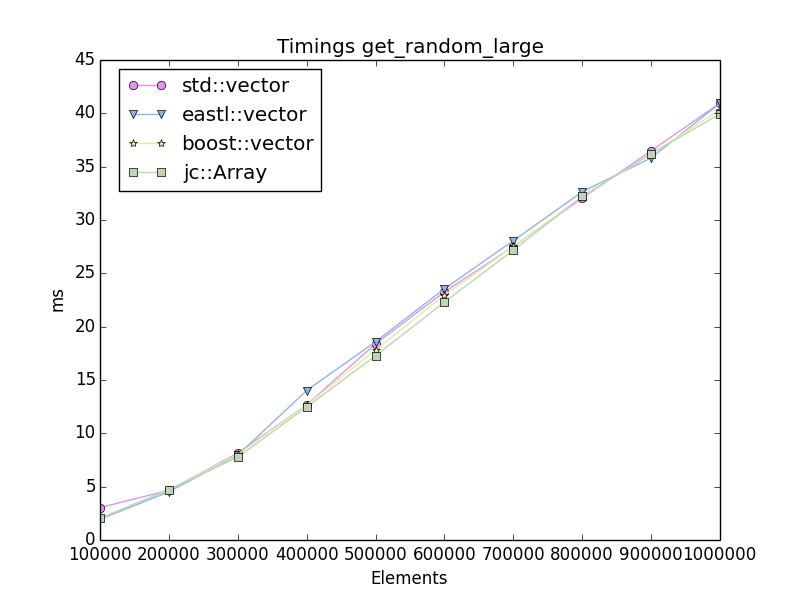
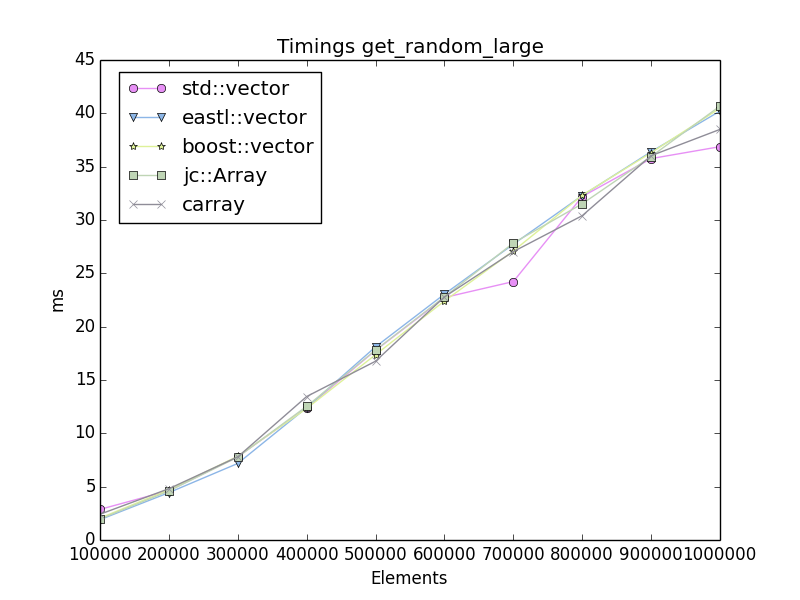
Added c array to the array benchmark for comparison

diff --git a/benchmarks/array/test_array.cpp b/benchmarks/array/test_array.cpp
@@ -11,22 +11,46 @@ struct SCtx
     container_valuesmall_t  smallvalues;
     container_valuelarge_t  largevalues;
     uint64_t                sum;            // sum of all small values
+
+#if defined(IMPL_C)
+    SCtx() : smallvalues(0), largevalues(0)
+    {
+
+    }
+    ~SCtx()
+    {
+        if(smallvalues)
+            free(smallvalues);
+        if(largevalues)
+            free(largevalues);
+    }
+#endif
 };
 
 static void clear(SCtx& ctx)
 {
     srand(0);
+#if defined(IMPL_C)
+    ctx.smallvalues = (container_valuesmall_t)malloc(sizeof(valuesmall_t)*ctx.num_elements);
+    ctx.largevalues = (container_valuelarge_t)malloc(sizeof(valuelarge_t)*ctx.num_elements);
+#else
     SET_CAPACITY(ctx.smallvalues, ctx.num_elements);
     SET_CAPACITY(ctx.largevalues, ctx.num_elements);
     SET_SIZE(ctx.smallvalues, 0);
     SET_SIZE(ctx.largevalues, 0);
+#endif
 }
 
 static void setup_random(SCtx& ctx)
 {
     srand(0);
+#if defined(IMPL_C)
+    ctx.smallvalues = (container_valuesmall_t)malloc(sizeof(valuesmall_t)*ctx.num_elements);
+    ctx.largevalues = (container_valuelarge_t)malloc(sizeof(valuelarge_t)*ctx.num_elements);
+#else
     SET_SIZE(ctx.smallvalues, ctx.num_elements);
     SET_SIZE(ctx.largevalues, ctx.num_elements);
+#endif
     for( size_t i = 0; i < ctx.num_elements; ++i )
     {
         ctx.smallvalues[i] = rand();
@@ -72,7 +96,11 @@ static uint64_t push_back(SCtx& ctx)
     uint64_t sum = 0;
     for( size_t i = 0; i < ctx.num_elements; ++i )
     {
+#if defined(IMPL_C)
+        ctx.smallvalues[i] = i;
+#else
         PUSH(ctx.smallvalues, i);
+#endif
         sum += ctx.smallvalues[i];
     }
     return sum;

diff --git a/benchmarks/array/defines.h b/benchmarks/array/defines.h
@@ -57,6 +57,11 @@ typedef struct SValue
     typedef boost::container::vector<valuesmall_t> container_valuesmall_t;
     typedef boost::container::vector<valuelarge_t> container_valuelarge_t;
 
+#elif defined(IMPL_C)
+    #define CONTAINERNAME "carray"
+    typedef valuesmall_t* container_valuesmall_t;
+    typedef valuelarge_t* container_valuelarge_t;
+
 #elif defined(IMPL_JC)
     #include <jc/array.h>
     #define CONTAINERNAME "jc::Array"

diff --git a/benchmarks/benchmarks_array.md b/benchmarks/benchmarks_array.md
@@ -18,65 +18,65 @@ _
 
 ## <sub>Timings</sub> <sub>get_random_small</sub>
 
-| <sub>counts</sub> | <sub>std::vector</sub> | <sub>eastl::vector</sub> | <sub>boost::vector</sub> | <sub>jc::Array</sub> |
-|--------:|-------------|---------------|---------------|------------|
-| <sub>100000</sub> | <sub>0.8301</sub> <sub>ms</sub> | <sub>0.8076</sub> <sub>ms</sub> | <sub>0.8070</sub> <sub>ms</sub> | <sub>0.8073</sub> <sub>ms</sub> |
-| <sub>200000</sub> | <sub>1.7399</sub> <sub>ms</sub> | <sub>1.6838</sub> <sub>ms</sub> | <sub>1.7015</sub> <sub>ms</sub> | <sub>1.6502</sub> <sub>ms</sub> |
-| <sub>300000</sub> | <sub>2.9307</sub> <sub>ms</sub> | <sub>2.8138</sub> <sub>ms</sub> | <sub>2.7659</sub> <sub>ms</sub> | <sub>2.8229</sub> <sub>ms</sub> |
-| <sub>400000</sub> | <sub>3.8769</sub> <sub>ms</sub> | <sub>3.9701</sub> <sub>ms</sub> | <sub>3.9898</sub> <sub>ms</sub> | <sub>4.3189</sub> <sub>ms</sub> |
-| <sub>500000</sub> | <sub>5.5413</sub> <sub>ms</sub> | <sub>6.2926</sub> <sub>ms</sub> | <sub>5.8681</sub> <sub>ms</sub> | <sub>5.9643</sub> <sub>ms</sub> |
-| <sub>600000</sub> | <sub>9.0944</sub> <sub>ms</sub> | <sub>9.5409</sub> <sub>ms</sub> | <sub>9.5429</sub> <sub>ms</sub> | <sub>8.6863</sub> <sub>ms</sub> |
-| <sub>700000</sub> | <sub>12.0396</sub> <sub>ms</sub> | <sub>12.0469</sub> <sub>ms</sub> | <sub>11.8891</sub> <sub>ms</sub> | <sub>12.1188</sub> <sub>ms</sub> |
-| <sub>800000</sub> | <sub>15.0395</sub> <sub>ms</sub> | <sub>15.5296</sub> <sub>ms</sub> | <sub>15.0654</sub> <sub>ms</sub> | <sub>14.9511</sub> <sub>ms</sub> |
-| <sub>900000</sub> | <sub>17.9646</sub> <sub>ms</sub> | <sub>16.7328</sub> <sub>ms</sub> | <sub>18.1123</sub> <sub>ms</sub> | <sub>17.7658</sub> <sub>ms</sub> |
-| <sub>1000000</sub> | <sub>20.4299</sub> <sub>ms</sub> | <sub>20.8780</sub> <sub>ms</sub> | <sub>21.0526</sub> <sub>ms</sub> | <sub>20.3419</sub> <sub>ms</sub> |
+| <sub>counts</sub> | <sub>std::vector</sub> | <sub>eastl::vector</sub> | <sub>boost::vector</sub> | <sub>jc::Array</sub> | <sub>carray</sub> |
+|--------:|-------------|---------------|---------------|------------|------------|
+| <sub>100000</sub> | <sub>0.8264</sub> <sub>ms</sub> | <sub>0.8080</sub> <sub>ms</sub> | <sub>0.8081</sub> <sub>ms</sub> | <sub>0.8070</sub> <sub>ms</sub> | <sub>0.9156</sub> <sub>ms</sub> |
+| <sub>200000</sub> | <sub>1.7394</sub> <sub>ms</sub> | <sub>1.7150</sub> <sub>ms</sub> | <sub>1.6988</sub> <sub>ms</sub> | <sub>1.7306</sub> <sub>ms</sub> | <sub>1.8948</sub> <sub>ms</sub> |
+| <sub>300000</sub> | <sub>3.1953</sub> <sub>ms</sub> | <sub>2.8719</sub> <sub>ms</sub> | <sub>2.7273</sub> <sub>ms</sub> | <sub>2.7776</sub> <sub>ms</sub> | <sub>2.9445</sub> <sub>ms</sub> |
+| <sub>400000</sub> | <sub>4.0184</sub> <sub>ms</sub> | <sub>4.1398</sub> <sub>ms</sub> | <sub>3.8273</sub> <sub>ms</sub> | <sub>4.0719</sub> <sub>ms</sub> | <sub>4.2344</sub> <sub>ms</sub> |
+| <sub>500000</sub> | <sub>5.6850</sub> <sub>ms</sub> | <sub>5.8138</sub> <sub>ms</sub> | <sub>5.6511</sub> <sub>ms</sub> | <sub>5.9827</sub> <sub>ms</sub> | <sub>6.4052</sub> <sub>ms</sub> |
+| <sub>600000</sub> | <sub>8.7354</sub> <sub>ms</sub> | <sub>9.0637</sub> <sub>ms</sub> | <sub>8.4654</sub> <sub>ms</sub> | <sub>9.2994</sub> <sub>ms</sub> | <sub>9.2293</sub> <sub>ms</sub> |
+| <sub>700000</sub> | <sub>10.9367</sub> <sub>ms</sub> | <sub>12.5569</sub> <sub>ms</sub> | <sub>11.9072</sub> <sub>ms</sub> | <sub>12.1086</sub> <sub>ms</sub> | <sub>11.7493</sub> <sub>ms</sub> |
+| <sub>800000</sub> | <sub>13.8100</sub> <sub>ms</sub> | <sub>14.9648</sub> <sub>ms</sub> | <sub>14.9357</sub> <sub>ms</sub> | <sub>14.7252</sub> <sub>ms</sub> | <sub>14.2899</sub> <sub>ms</sub> |
+| <sub>900000</sub> | <sub>17.8260</sub> <sub>ms</sub> | <sub>17.9126</sub> <sub>ms</sub> | <sub>17.8071</sub> <sub>ms</sub> | <sub>17.6653</sub> <sub>ms</sub> | <sub>16.5598</sub> <sub>ms</sub> |
+| <sub>1000000</sub> | <sub>18.7424</sub> <sub>ms</sub> | <sub>20.6326</sub> <sub>ms</sub> | <sub>20.6248</sub> <sub>ms</sub> | <sub>20.3646</sub> <sub>ms</sub> | <sub>18.6638</sub> <sub>ms</sub> |
 
 
 ## <sub>Timings</sub> <sub>get_random_large</sub>
 
-| <sub>counts</sub> | <sub>std::vector</sub> | <sub>eastl::vector</sub> | <sub>boost::vector</sub> | <sub>jc::Array</sub> |
-|--------:|-------------|---------------|---------------|------------|
-| <sub>100000</sub> | <sub>3.0351</sub> <sub>ms</sub> | <sub>1.9380</sub> <sub>ms</sub> | <sub>2.0532</sub> <sub>ms</sub> | <sub>2.0162</sub> <sub>ms</sub> |
-| <sub>200000</sub> | <sub>4.6583</sub> <sub>ms</sub> | <sub>4.5259</sub> <sub>ms</sub> | <sub>4.7128</sub> <sub>ms</sub> | <sub>4.7252</sub> <sub>ms</sub> |
-| <sub>300000</sub> | <sub>8.1514</sub> <sub>ms</sub> | <sub>7.9548</sub> <sub>ms</sub> | <sub>8.0221</sub> <sub>ms</sub> | <sub>7.7666</sub> <sub>ms</sub> |
-| <sub>400000</sub> | <sub>12.6710</sub> <sub>ms</sub> | <sub>14.0151</sub> <sub>ms</sub> | <sub>12.6651</sub> <sub>ms</sub> | <sub>12.4697</sub> <sub>ms</sub> |
-| <sub>500000</sub> | <sub>18.3889</sub> <sub>ms</sub> | <sub>18.5854</sub> <sub>ms</sub> | <sub>17.8200</sub> <sub>ms</sub> | <sub>17.2721</sub> <sub>ms</sub> |
-| <sub>600000</sub> | <sub>23.2546</sub> <sub>ms</sub> | <sub>23.5543</sub> <sub>ms</sub> | <sub>22.9486</sub> <sub>ms</sub> | <sub>22.2995</sub> <sub>ms</sub> |
-| <sub>700000</sub> | <sub>27.5151</sub> <sub>ms</sub> | <sub>28.0592</sub> <sub>ms</sub> | <sub>27.5168</sub> <sub>ms</sub> | <sub>27.1755</sub> <sub>ms</sub> |
-| <sub>800000</sub> | <sub>32.0440</sub> <sub>ms</sub> | <sub>32.6445</sub> <sub>ms</sub> | <sub>32.1771</sub> <sub>ms</sub> | <sub>32.2110</sub> <sub>ms</sub> |
-| <sub>900000</sub> | <sub>36.4793</sub> <sub>ms</sub> | <sub>35.8226</sub> <sub>ms</sub> | <sub>36.1838</sub> <sub>ms</sub> | <sub>36.2182</sub> <sub>ms</sub> |
-| <sub>1000000</sub> | <sub>40.9676</sub> <sub>ms</sub> | <sub>40.9470</sub> <sub>ms</sub> | <sub>40.3537</sub> <sub>ms</sub> | <sub>39.9463</sub> <sub>ms</sub> |
+| <sub>counts</sub> | <sub>std::vector</sub> | <sub>eastl::vector</sub> | <sub>boost::vector</sub> | <sub>jc::Array</sub> | <sub>carray</sub> |
+|--------:|-------------|---------------|---------------|------------|------------|
+| <sub>100000</sub> | <sub>2.8695</sub> <sub>ms</sub> | <sub>1.9055</sub> <sub>ms</sub> | <sub>2.0528</sub> <sub>ms</sub> | <sub>1.9727</sub> <sub>ms</sub> | <sub>2.4154</sub> <sub>ms</sub> |
+| <sub>200000</sub> | <sub>4.6309</sub> <sub>ms</sub> | <sub>4.4411</sub> <sub>ms</sub> | <sub>4.7103</sub> <sub>ms</sub> | <sub>4.5928</sub> <sub>ms</sub> | <sub>4.8088</sub> <sub>ms</sub> |
+| <sub>300000</sub> | <sub>7.8132</sub> <sub>ms</sub> | <sub>7.1768</sub> <sub>ms</sub> | <sub>7.8538</sub> <sub>ms</sub> | <sub>7.7742</sub> <sub>ms</sub> | <sub>7.7942</sub> <sub>ms</sub> |
+| <sub>400000</sub> | <sub>12.3929</sub> <sub>ms</sub> | <sub>12.4093</sub> <sub>ms</sub> | <sub>12.3329</sub> <sub>ms</sub> | <sub>12.5360</sub> <sub>ms</sub> | <sub>13.4506</sub> <sub>ms</sub> |
+| <sub>500000</sub> | <sub>17.7810</sub> <sub>ms</sub> | <sub>18.1099</sub> <sub>ms</sub> | <sub>17.3735</sub> <sub>ms</sub> | <sub>17.8010</sub> <sub>ms</sub> | <sub>16.7615</sub> <sub>ms</sub> |
+| <sub>600000</sub> | <sub>22.7329</sub> <sub>ms</sub> | <sub>23.0500</sub> <sub>ms</sub> | <sub>22.4068</sub> <sub>ms</sub> | <sub>22.7911</sub> <sub>ms</sub> | <sub>22.7921</sub> <sub>ms</sub> |
+| <sub>700000</sub> | <sub>24.2275</sub> <sub>ms</sub> | <sub>27.7321</sub> <sub>ms</sub> | <sub>27.0947</sub> <sub>ms</sub> | <sub>27.8435</sub> <sub>ms</sub> | <sub>27.0367</sub> <sub>ms</sub> |
+| <sub>800000</sub> | <sub>32.2001</sub> <sub>ms</sub> | <sub>32.2912</sub> <sub>ms</sub> | <sub>32.3264</sub> <sub>ms</sub> | <sub>31.5190</sub> <sub>ms</sub> | <sub>30.4063</sub> <sub>ms</sub> |
+| <sub>900000</sub> | <sub>35.7571</sub> <sub>ms</sub> | <sub>36.4017</sub> <sub>ms</sub> | <sub>36.3096</sub> <sub>ms</sub> | <sub>35.9511</sub> <sub>ms</sub> | <sub>36.0292</sub> <sub>ms</sub> |
+| <sub>1000000</sub> | <sub>36.8750</sub> <sub>ms</sub> | <sub>40.2151</sub> <sub>ms</sub> | <sub>40.4876</sub> <sub>ms</sub> | <sub>40.6841</sub> <sub>ms</sub> | <sub>38.4951</sub> <sub>ms</sub> |
 
 
 ## <sub>Timings</sub> <sub>sum</sub>
 
-| <sub>counts</sub> | <sub>std::vector</sub> | <sub>eastl::vector</sub> | <sub>boost::vector</sub> | <sub>jc::Array</sub> |
-|--------:|-------------|---------------|---------------|-----------|
-| <sub>100000</sub> | <sub>0.0327</sub> <sub>ms</sub> | <sub>0.0248</sub> <sub>ms</sub> | <sub>0.0278</sub> <sub>ms</sub> | <sub>0.0276</sub> <sub>ms</sub> |
-| <sub>200000</sub> | <sub>0.0647</sub> <sub>ms</sub> | <sub>0.0619</sub> <sub>ms</sub> | <sub>0.0645</sub> <sub>ms</sub> | <sub>0.0622</sub> <sub>ms</sub> |
-| <sub>300000</sub> | <sub>0.0992</sub> <sub>ms</sub> | <sub>0.1087</sub> <sub>ms</sub> | <sub>0.1008</sub> <sub>ms</sub> | <sub>0.1003</sub> <sub>ms</sub> |
-| <sub>400000</sub> | <sub>0.1428</sub> <sub>ms</sub> | <sub>0.1435</sub> <sub>ms</sub> | <sub>0.1418</sub> <sub>ms</sub> | <sub>0.1426</sub> <sub>ms</sub> |
-| <sub>500000</sub> | <sub>0.1853</sub> <sub>ms</sub> | <sub>0.1866</sub> <sub>ms</sub> | <sub>0.1857</sub> <sub>ms</sub> | <sub>0.1850</sub> <sub>ms</sub> |
-| <sub>600000</sub> | <sub>0.2323</sub> <sub>ms</sub> | <sub>0.2459</sub> <sub>ms</sub> | <sub>0.2334</sub> <sub>ms</sub> | <sub>0.2336</sub> <sub>ms</sub> |
-| <sub>700000</sub> | <sub>0.2758</sub> <sub>ms</sub> | <sub>0.2727</sub> <sub>ms</sub> | <sub>0.2783</sub> <sub>ms</sub> | <sub>0.2805</sub> <sub>ms</sub> |
-| <sub>800000</sub> | <sub>0.3106</sub> <sub>ms</sub> | <sub>0.3326</sub> <sub>ms</sub> | <sub>0.3124</sub> <sub>ms</sub> | <sub>0.3104</sub> <sub>ms</sub> |
-| <sub>900000</sub> | <sub>0.3488</sub> <sub>ms</sub> | <sub>0.3797</sub> <sub>ms</sub> | <sub>0.3507</sub> <sub>ms</sub> | <sub>0.3631</sub> <sub>ms</sub> |
-| <sub>1000000</sub> | <sub>0.3839</sub> <sub>ms</sub> | <sub>0.3926</sub> <sub>ms</sub> | <sub>0.3846</sub> <sub>ms</sub> | <sub>0.3873</sub> <sub>ms</sub> |
+| <sub>counts</sub> | <sub>std::vector</sub> | <sub>eastl::vector</sub> | <sub>boost::vector</sub> | <sub>jc::Array</sub> | <sub>carray</sub> |
+|--------:|-------------|---------------|---------------|-----------|-----------|
+| <sub>100000</sub> | <sub>0.0354</sub> <sub>ms</sub> | <sub>0.0260</sub> <sub>ms</sub> | <sub>0.0295</sub> <sub>ms</sub> | <sub>0.0270</sub> <sub>ms</sub> | <sub>0.0380</sub> <sub>ms</sub> |
+| <sub>200000</sub> | <sub>0.0632</sub> <sub>ms</sub> | <sub>0.0619</sub> <sub>ms</sub> | <sub>0.0630</sub> <sub>ms</sub> | <sub>0.0615</sub> <sub>ms</sub> | <sub>0.0755</sub> <sub>ms</sub> |
+| <sub>300000</sub> | <sub>0.1009</sub> <sub>ms</sub> | <sub>0.1003</sub> <sub>ms</sub> | <sub>0.1005</sub> <sub>ms</sub> | <sub>0.1016</sub> <sub>ms</sub> | <sub>0.1243</sub> <sub>ms</sub> |
+| <sub>400000</sub> | <sub>0.1418</sub> <sub>ms</sub> | <sub>0.1431</sub> <sub>ms</sub> | <sub>0.1459</sub> <sub>ms</sub> | <sub>0.1439</sub> <sub>ms</sub> | <sub>0.1750</sub> <sub>ms</sub> |
+| <sub>500000</sub> | <sub>0.1847</sub> <sub>ms</sub> | <sub>0.1895</sub> <sub>ms</sub> | <sub>0.1838</sub> <sub>ms</sub> | <sub>0.1847</sub> <sub>ms</sub> | <sub>0.2453</sub> <sub>ms</sub> |
+| <sub>600000</sub> | <sub>0.2327</sub> <sub>ms</sub> | <sub>0.2318</sub> <sub>ms</sub> | <sub>0.2320</sub> <sub>ms</sub> | <sub>0.2331</sub> <sub>ms</sub> | <sub>0.2864</sub> <sub>ms</sub> |
+| <sub>700000</sub> | <sub>0.3028</sub> <sub>ms</sub> | <sub>0.2751</sub> <sub>ms</sub> | <sub>0.2731</sub> <sub>ms</sub> | <sub>0.2757</sub> <sub>ms</sub> | <sub>0.3479</sub> <sub>ms</sub> |
+| <sub>800000</sub> | <sub>0.3164</sub> <sub>ms</sub> | <sub>0.3124</sub> <sub>ms</sub> | <sub>0.3092</sub> <sub>ms</sub> | <sub>0.3097</sub> <sub>ms</sub> | <sub>0.3748</sub> <sub>ms</sub> |
+| <sub>900000</sub> | <sub>0.3484</sub> <sub>ms</sub> | <sub>0.3535</sub> <sub>ms</sub> | <sub>0.3490</sub> <sub>ms</sub> | <sub>0.3512</sub> <sub>ms</sub> | <sub>0.4793</sub> <sub>ms</sub> |
+| <sub>1000000</sub> | <sub>0.3866</sub> <sub>ms</sub> | <sub>0.3863</sub> <sub>ms</sub> | <sub>0.3886</sub> <sub>ms</sub> | <sub>0.3884</sub> <sub>ms</sub> | <sub>0.5242</sub> <sub>ms</sub> |
 
 
 ## <sub>Timings</sub> <sub>push_back</sub>
 
-| <sub>counts</sub> | <sub>std::vector</sub> | <sub>eastl::vector</sub> | <sub>boost::vector</sub> | <sub>jc::Array</sub> |
-|--------:|-------------|---------------|---------------|-----------|
-| <sub>100000</sub> | <sub>0.1581</sub> <sub>ms</sub> | <sub>0.0753</sub> <sub>ms</sub> | <sub>0.1368</sub> <sub>ms</sub> | <sub>0.0405</sub> <sub>ms</sub> |
-| <sub>200000</sub> | <sub>0.2768</sub> <sub>ms</sub> | <sub>0.1504</sub> <sub>ms</sub> | <sub>0.2608</sub> <sub>ms</sub> | <sub>0.0831</sub> <sub>ms</sub> |
-| <sub>300000</sub> | <sub>0.4151</sub> <sub>ms</sub> | <sub>0.2326</sub> <sub>ms</sub> | <sub>0.3910</sub> <sub>ms</sub> | <sub>0.1214</sub> <sub>ms</sub> |
-| <sub>400000</sub> | <sub>0.5537</sub> <sub>ms</sub> | <sub>0.3148</sub> <sub>ms</sub> | <sub>0.5212</sub> <sub>ms</sub> | <sub>0.1713</sub> <sub>ms</sub> |
-| <sub>500000</sub> | <sub>0.6924</sub> <sub>ms</sub> | <sub>0.4070</sub> <sub>ms</sub> | <sub>0.6761</sub> <sub>ms</sub> | <sub>0.2343</sub> <sub>ms</sub> |
-| <sub>600000</sub> | <sub>0.8321</sub> <sub>ms</sub> | <sub>0.5474</sub> <sub>ms</sub> | <sub>0.7888</sub> <sub>ms</sub> | <sub>0.2853</sub> <sub>ms</sub> |
-| <sub>700000</sub> | <sub>0.9707</sub> <sub>ms</sub> | <sub>0.5876</sub> <sub>ms</sub> | <sub>0.9420</sub> <sub>ms</sub> | <sub>0.3613</sub> <sub>ms</sub> |
-| <sub>800000</sub> | <sub>1.1094</sub> <sub>ms</sub> | <sub>0.6127</sub> <sub>ms</sub> | <sub>1.0515</sub> <sub>ms</sub> | <sub>0.3652</sub> <sub>ms</sub> |
-| <sub>900000</sub> | <sub>1.2480</sub> <sub>ms</sub> | <sub>0.6900</sub> <sub>ms</sub> | <sub>1.1768</sub> <sub>ms</sub> | <sub>0.4018</sub> <sub>ms</sub> |
-| <sub>1000000</sub> | <sub>1.3852</sub> <sub>ms</sub> | <sub>0.7662</sub> <sub>ms</sub> | <sub>1.3047</sub> <sub>ms</sub> | <sub>0.4477</sub> <sub>ms</sub> |
+| <sub>counts</sub> | <sub>std::vector</sub> | <sub>eastl::vector</sub> | <sub>boost::vector</sub> | <sub>jc::Array</sub> | <sub>carray</sub> |
+|--------:|-------------|---------------|---------------|-----------|-----------|
+| <sub>100000</sub> | <sub>0.1538</sub> <sub>ms</sub> | <sub>0.0752</sub> <sub>ms</sub> | <sub>0.1444</sub> <sub>ms</sub> | <sub>0.0405</sub> <sub>ms</sub> | <sub>0.0342</sub> <sub>ms</sub> |
+| <sub>200000</sub> | <sub>0.2766</sub> <sub>ms</sub> | <sub>0.1671</sub> <sub>ms</sub> | <sub>0.2606</sub> <sub>ms</sub> | <sub>0.0877</sub> <sub>ms</sub> | <sub>0.1000</sub> <sub>ms</sub> |
+| <sub>300000</sub> | <sub>0.4150</sub> <sub>ms</sub> | <sub>0.2257</sub> <sub>ms</sub> | <sub>0.3908</sub> <sub>ms</sub> | <sub>0.1219</sub> <sub>ms</sub> | <sub>0.1267</sub> <sub>ms</sub> |
+| <sub>400000</sub> | <sub>0.5536</sub> <sub>ms</sub> | <sub>0.3010</sub> <sub>ms</sub> | <sub>0.5652</sub> <sub>ms</sub> | <sub>0.1645</sub> <sub>ms</sub> | <sub>0.1822</sub> <sub>ms</sub> |
+| <sub>500000</sub> | <sub>0.6933</sub> <sub>ms</sub> | <sub>0.3772</sub> <sub>ms</sub> | <sub>0.6537</sub> <sub>ms</sub> | <sub>0.2218</sub> <sub>ms</sub> | <sub>0.2511</sub> <sub>ms</sub> |
+| <sub>600000</sub> | <sub>0.8327</sub> <sub>ms</sub> | <sub>0.5024</sub> <sub>ms</sub> | <sub>0.8588</sub> <sub>ms</sub> | <sub>0.2611</sub> <sub>ms</sub> | <sub>0.3052</sub> <sub>ms</sub> |
+| <sub>700000</sub> | <sub>0.9690</sub> <sub>ms</sub> | <sub>0.5647</sub> <sub>ms</sub> | <sub>0.9205</sub> <sub>ms</sub> | <sub>0.3401</sub> <sub>ms</sub> | <sub>0.3498</sub> <sub>ms</sub> |
+| <sub>800000</sub> | <sub>1.2133</sub> <sub>ms</sub> | <sub>0.6733</sub> <sub>ms</sub> | <sub>1.0508</sub> <sub>ms</sub> | <sub>0.4059</sub> <sub>ms</sub> | <sub>0.4152</sub> <sub>ms</sub> |
+| <sub>900000</sub> | <sub>1.2480</sub> <sub>ms</sub> | <sub>0.7064</sub> <sub>ms</sub> | <sub>1.1754</sub> <sub>ms</sub> | <sub>0.4026</sub> <sub>ms</sub> | <sub>0.4551</sub> <sub>ms</sub> |
+| <sub>1000000</sub> | <sub>1.3864</sub> <sub>ms</sub> | <sub>0.7664</sub> <sub>ms</sub> | <sub>1.3061</sub> <sub>ms</sub> | <sub>0.4482</sub> <sub>ms</sub> | <sub>0.5036</sub> <sub>ms</sub> |
 
 

diff --git a/benchmarks/README.md b/benchmarks/README.md
@@ -3,7 +3,7 @@
     $ ./compile_clang.sh array
     $ ./benchmark.sh array      # Outputs ./build/benchmarks/array.txt
     $ python makereport.py ./build/benchmarks/array.txt > report.txt
-    $ python render.py report.txt ../images/array
+    $ python render.py report.txt ./images/array
     $ python markdown.py jc::Array array report.txt > benchmarks_array.md
 
 # Benchmarks
